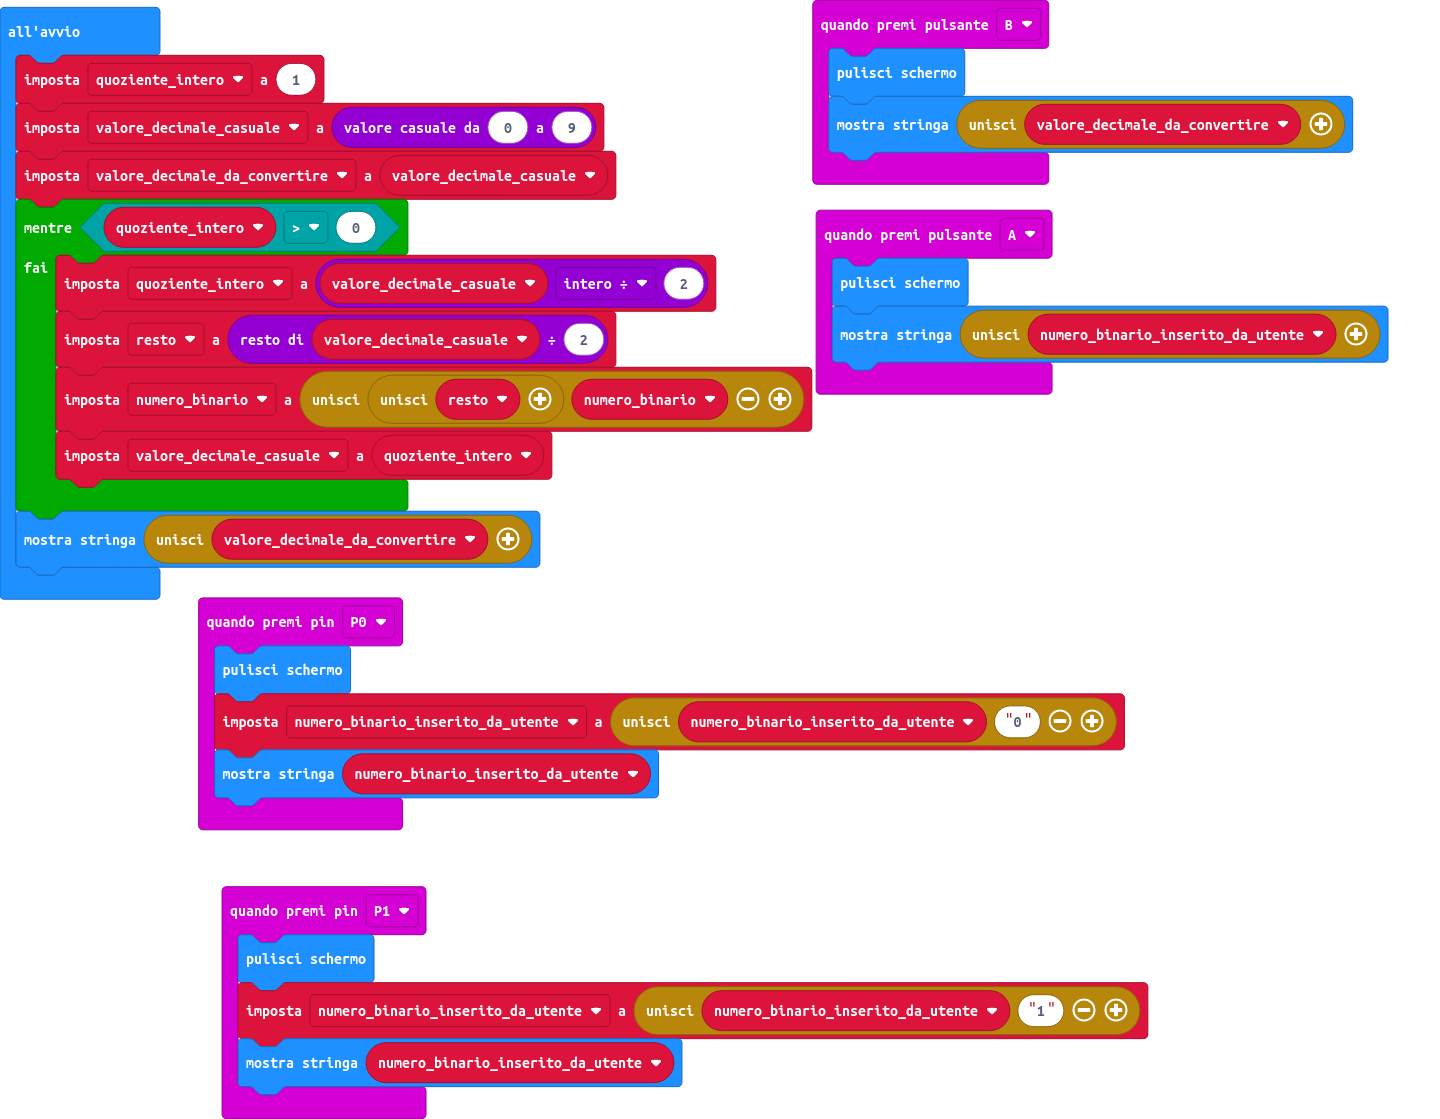
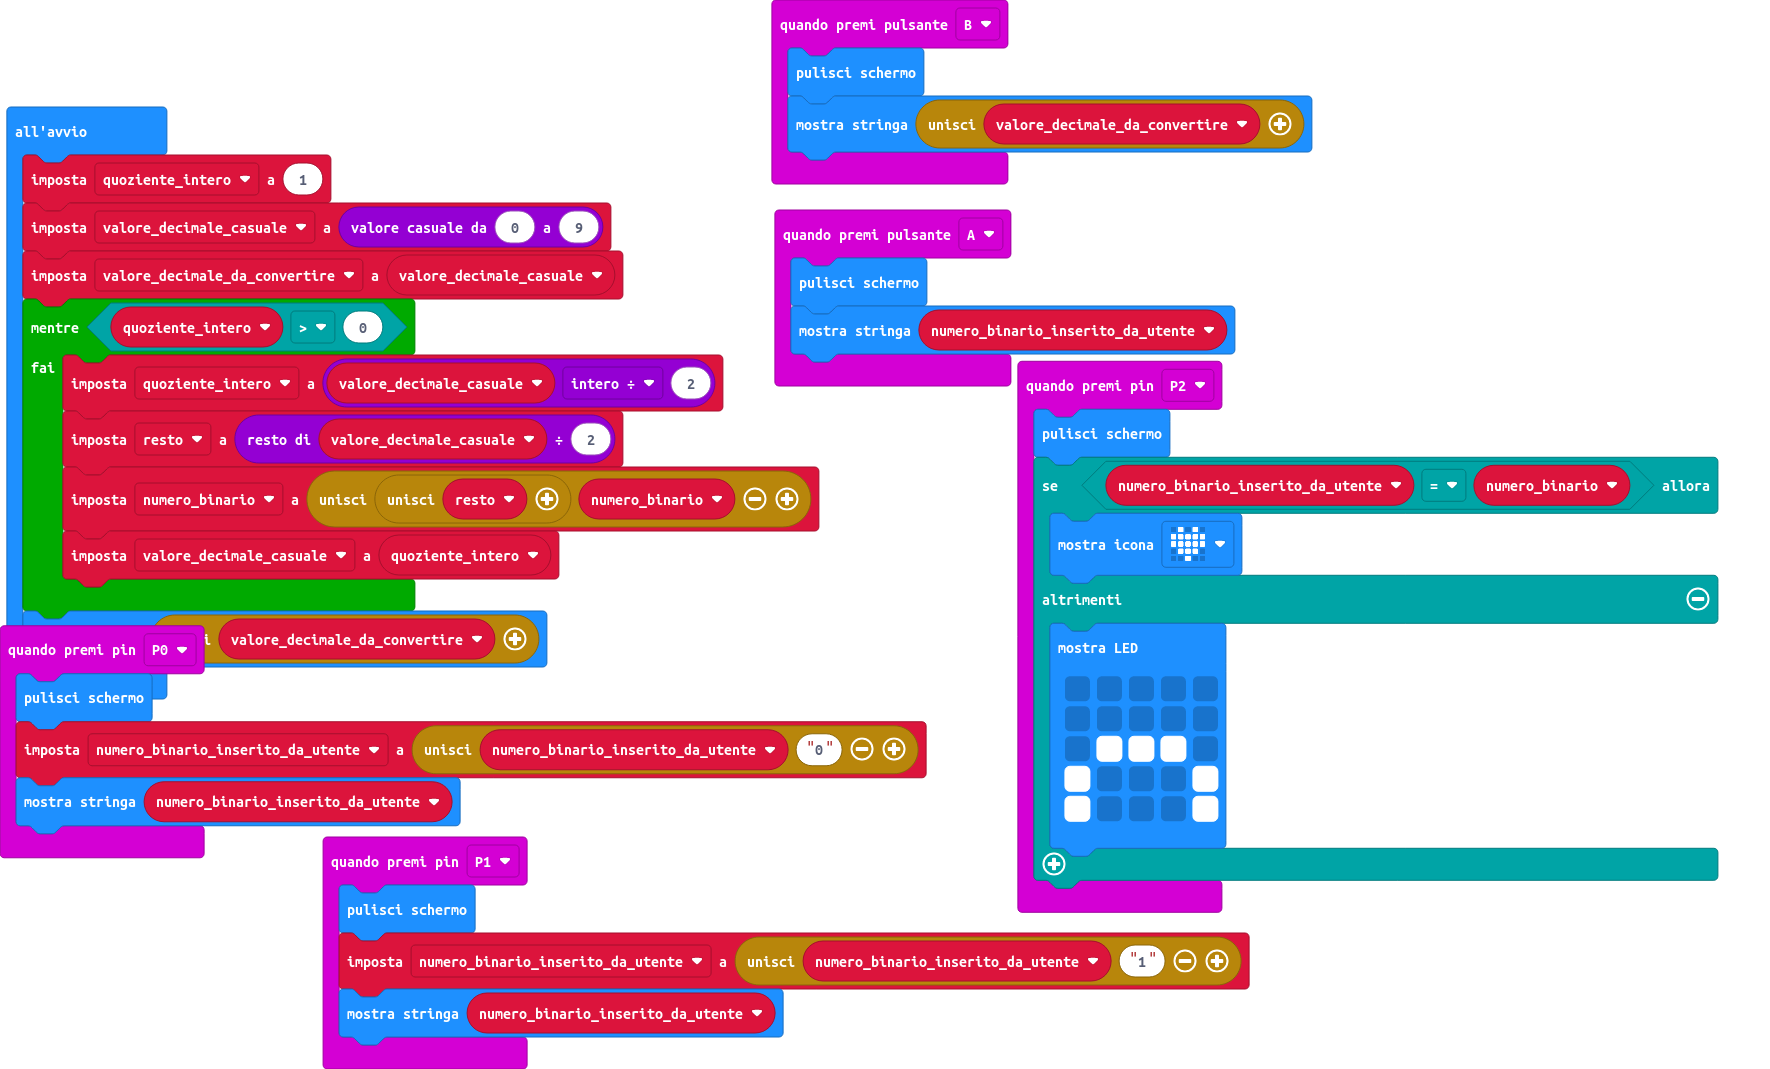
Aggiorna main.blocks, main.ts, main.py

diff --git a/main.ts b/main.ts
@@ -1,11 +1,25 @@
 input.onPinPressed(TouchPin.P0, function () {
     basic.clearScreen()
     numero_binario_inserito_da_utente = "" + numero_binario_inserito_da_utente + "0"
-    basic.showString(numero_binario_inserito_da_utente)
+    basic.showString("" + (numero_binario_inserito_da_utente))
 })
 input.onButtonPressed(Button.A, function () {
     basic.clearScreen()
-    basic.showString("" + numero_binario_inserito_da_utente)
+    basic.showString("" + (numero_binario_inserito_da_utente))
+})
+input.onPinPressed(TouchPin.P2, function () {
+    basic.clearScreen()
+    if (numero_binario_inserito_da_utente == numero_binario) {
+        basic.showIcon(IconNames.Heart)
+    } else {
+        basic.showLeds(`
+            . . . . .
+            . . . . .
+            . # # # .
+            # . . . #
+            # . . . #
+            `)
+    }
 })
 input.onButtonPressed(Button.B, function () {
     basic.clearScreen()
@@ -14,7 +28,7 @@ input.onButtonPressed(Button.B, function () {
 input.onPinPressed(TouchPin.P1, function () {
     basic.clearScreen()
     numero_binario_inserito_da_utente = "" + numero_binario_inserito_da_utente + "1"
-    basic.showString(numero_binario_inserito_da_utente)
+    basic.showString("" + (numero_binario_inserito_da_utente))
 })
 let numero_binario_inserito_da_utente = ""
 let numero_binario = ""

diff --git a/main.py b/main.py
@@ -1,40 +1,38 @@
 def on_pin_pressed_p0():
+    global numero_binario_inserito_da_utente
     basic.clear_screen()
-    numero_binario_inserito_da_utente = "" + numero_binario + "0"
-    basic.show_string("" + str((numero_binario_inserito_da_utente)))
+    numero_binario_inserito_da_utente = "" + numero_binario_inserito_da_utente + "0"
+    basic.show_string(numero_binario_inserito_da_utente)
 input.on_pin_pressed(TouchPin.P0, on_pin_pressed_p0)
 
 def on_button_pressed_a():
-    global switch_mostra_nascondi_decimale, switch_mostra_nascondi_binario
-    if switch_mostra_nascondi_binario == 0:
-        basic.clear_screen()
-        switch_mostra_nascondi_decimale = 1
-    else:
-        switch_mostra_nascondi_binario = 0
+    basic.clear_screen()
+    basic.show_string("" + numero_binario_inserito_da_utente)
 input.on_button_pressed(Button.A, on_button_pressed_a)
 
-def on_button_pressed_b():
-    global switch_mostra_nascondi_decimale
-    if switch_mostra_nascondi_decimale == 0:
-        basic.clear_screen()
-        switch_mostra_nascondi_decimale = 1
+def on_gesture_shake():
+    if numero_binario_inserito_da_utente==numero_binario:
+        pass
     else:
-        basic.show_string("" + str((valore_decimale_da_convertire)))
-        switch_mostra_nascondi_decimale = 0
+        pass
+input.on_gesture(Gesture.SHAKE, on_gesture_shake)
+
+def on_button_pressed_b():
+    basic.clear_screen()
+    basic.show_string("" + str(valore_decimale_da_convertire))
 input.on_button_pressed(Button.B, on_button_pressed_b)
 
 def on_pin_pressed_p1():
+    global numero_binario_inserito_da_utente
     basic.clear_screen()
-    numero_binario_inserito_da_utente = "" + numero_binario + "1"
-    basic.show_string("" + str((numero_binario_inserito_da_utente)))
+    numero_binario_inserito_da_utente = "" + numero_binario_inserito_da_utente + "1"
+    basic.show_string(numero_binario_inserito_da_utente)
 input.on_pin_pressed(TouchPin.P1, on_pin_pressed_p1)
 
-switch_mostra_nascondi_binario = 0
+numero_binario_inserito_da_utente = ""
 numero_binario = ""
 resto = 0
 valore_decimale_da_convertire = 0
-switch_mostra_nascondi_decimale = 0
-switch_mostra_nascondi_decimale = 0
 quoziente_intero = 1
 valore_decimale_casuale = randint(0, 9)
 valore_decimale_da_convertire = valore_decimale_casuale
@@ -43,4 +41,4 @@ while quoziente_intero > 0:
     resto = valore_decimale_casuale % 2
     numero_binario = "" + str(resto) + numero_binario
     valore_decimale_casuale = quoziente_intero
-basic.show_string("" + str((valore_decimale_da_convertire)))
+basic.show_string("" + str(valore_decimale_da_convertire))
